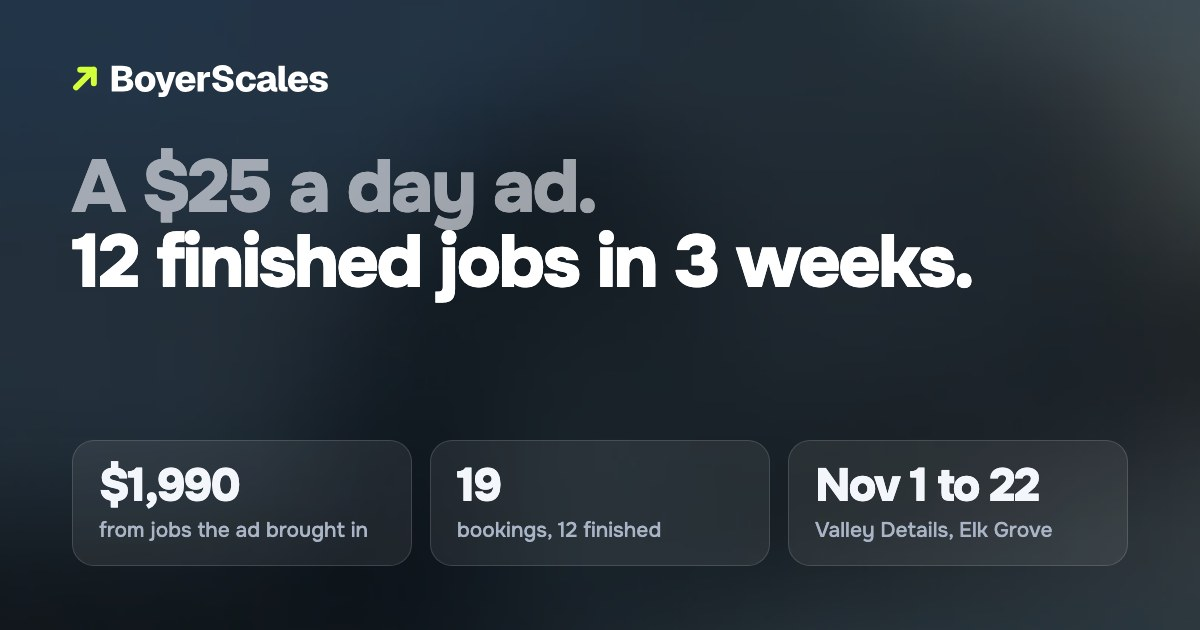
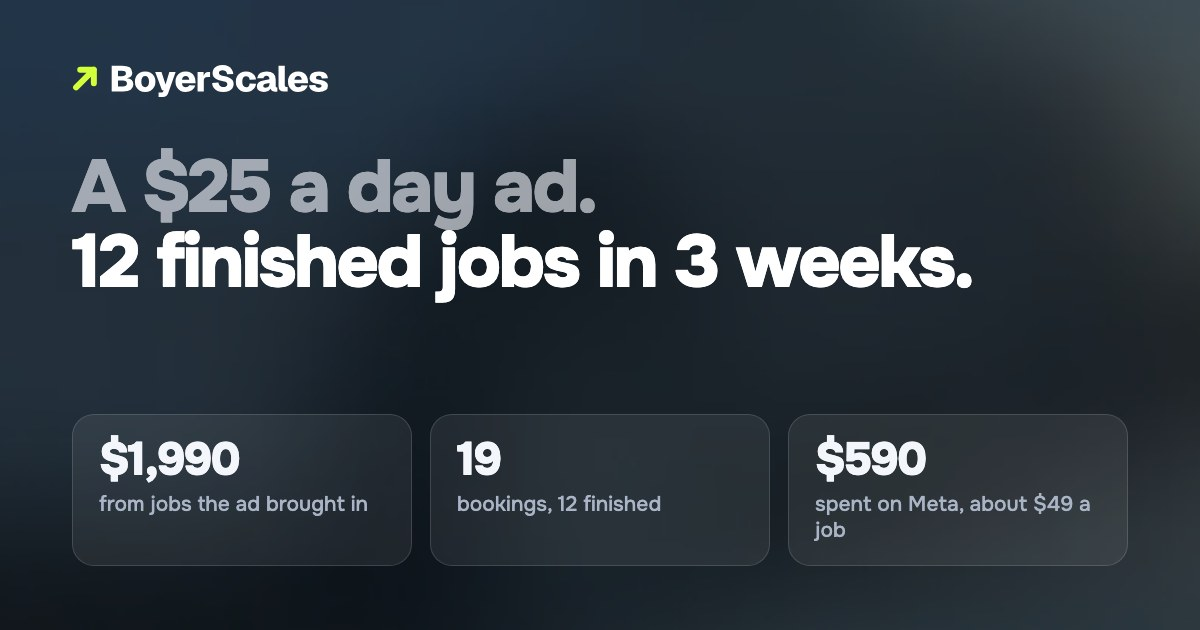
Valley case study: real Nov ad spend from billing, Booked Jobs terms and assistant

Changed region(s): [[0.0617, 0.6937, 0.3083, 0.8746], [0.6783, 0.6937, 0.925, 0.8746], [0.37, 0.6937, 0.555, 0.8746]]

diff --git a/valley/index.html b/valley/index.html
@@ -4,7 +4,7 @@
 <meta charset="utf-8">
 <meta name="viewport" content="width=device-width, initial-scale=1, viewport-fit=cover">
 <title>Valley Details results · BoyerScales</title>
-<meta name="description" content="Valley Details, a mobile detailer in Elk Grove, ran one $25 a day Meta ad in November 2026. 19 bookings came from it, 12 jobs finished, $1,990. The real job log and the setup behind it.">
+<meta name="description" content="Valley Details, a mobile detailer in Elk Grove, spent about $590 on one Meta ad in November 2026. 19 bookings came from it, 12 jobs finished, $1,990. The real job log and the setup behind it.">
 <meta property="og:site_name" content="BoyerScales">
 <meta property="og:title" content="A $25 a day ad. 12 finished jobs in 3 weeks.">
 <meta property="og:image:width" content="1200">
@@ -22,7 +22,7 @@
 <link rel="preconnect" href="https://fonts.gstatic.com" crossorigin>
 <link href="https://fonts.googleapis.com/css2?family=Onest:wght@400;500;600;700;800&display=swap" rel="stylesheet">
 <script>document.documentElement.className+=" js";setTimeout(function(){if(!window.__vOK)document.documentElement.classList.remove("js")},2500)</script>
-<link rel="stylesheet" href="valley.css?v=20261123b">
+<link rel="stylesheet" href="valley.css?v=20261123c">
 <!-- Meta Pixel (same pixel and visitor id as the homepage) -->
 <script>
   !function(f,b,e,v,n,t,s){if(f.fbq)return;n=f.fbq=function(){n.callMethod?
@@ -60,6 +60,7 @@
   <div class="stats">
     <div class="stat glass rv"><b data-count="1990" data-pre="$">$1,990</b><span>from jobs the ad brought in</span></div>
     <div class="stat glass rv"><b data-count="12">12</b><span>ad jobs finished, out of 14 the shop did in that time</span></div>
+    <div class="stat glass rv"><b>$590</b><span>about what Meta charged for Nov 1 to 23, from the billing history. Roughly $49 per finished job.</span></div>
     <div class="stat glass rv"><b>$25</b><span>a day ad budget, shown around Elk Grove. All 12 jobs came from one ad.</span></div>
   </div>
 </section>
@@ -143,11 +144,12 @@
       <li>I build and run your ad from your own job photos and prices.</li>
       <li>Your booking page, with your services, car sizes and open times.</li>
       <li>Confirmation, reminder and after-job texts from your number.</li>
+      <li>Your Instagram DMs, Facebook messages and missed calls answered by your own assistant.</li>
       <li>Your dashboard, showing which jobs came from the ad.</li>
       <li>I watch the ad every week and change it when it slows down.</li>
       <li>You do the cars and answer your customers. I run the ad, the page, the texts and the dashboard.</li>
     </ul>
-    <p class="honest">I won't promise you a number. The numbers above are Valley's, and your first month shows yours.</p>
+    <p class="honest">Month to month. The $500 setup is fully refundable for 30 days. I won't promise you a number. The numbers above are Valley's, and your first month shows yours.</p>
     <a class="btn btn-go" href="sms:+19167082759?&amp;body=Hey%20Elijah%2C%20saw%20the%20Valley%20numbers.%20My%20shop%20is%20" data-go="offer">Text me about my shop</a>
     <p class="fine">Opens a text to me, Elijah, at <span class="nw">(916) 708-2759</span>. Or <a href="https://ig.me/m/boyerscales" target="_blank" rel="noopener">DM me on Instagram</a>.</p>
   </article>

diff --git a/valley/valley.css b/valley/valley.css
@@ -56,7 +56,7 @@ h2{font-size:clamp(23px,6.4vw,34px)}
 .stat{padding:16px 18px;display:flex;align-items:baseline;gap:14px}
 .stat b{flex:none;width:3.15em;font-size:40px;font-weight:800;letter-spacing:-.04em;line-height:1;font-variant-numeric:tabular-nums;white-space:nowrap}
 .stat span{color:var(--mut);font-size:15px;line-height:1.35}
-.stat:nth-child(2){transition-delay:.08s}.stat:nth-child(3){transition-delay:.16s}
+.stat:nth-child(2){transition-delay:.08s}.stat:nth-child(3){transition-delay:.16s}.stat:nth-child(4){transition-delay:.24s}
 
 /* where the bookings went */
 .flow,.log{padding:20px 18px}
@@ -122,7 +122,7 @@ tfoot td:first-child{color:var(--txt)}
 @media (min-width:700px){
   body{padding-bottom:0}
   .dock{display:none}
-  .stats{grid-template-columns:repeat(3,1fr)}
+  .stats{grid-template-columns:repeat(2,1fr)}
   .stat{flex-direction:column;gap:8px}
   .step{grid-template-columns:1.2fr 1fr;align-items:center;padding:26px}
   .flow,.log,.offer article{padding:26px}
